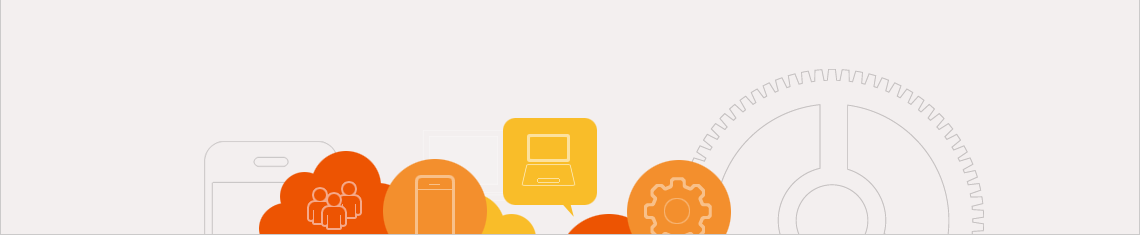
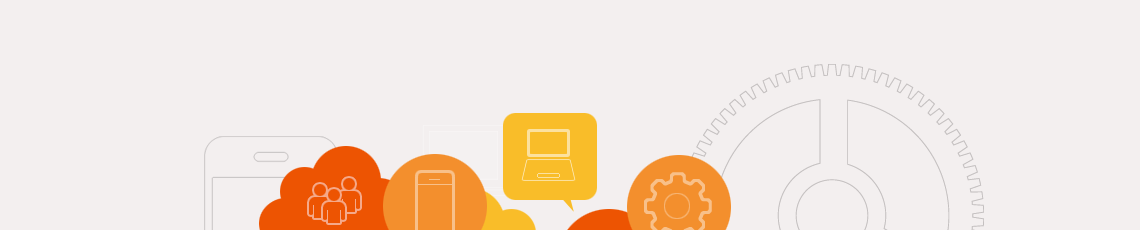
Visual tweaks

diff --git a/css/style.css b/css/style.css
@@ -27,7 +27,7 @@ html, body {
     background-image: url("../assets/LandingPageBanner.png");
     background-size: 100% 100%;
     margin: auto;
-    max-height: 235px;
+    max-height: 230px;
     max-width: 1140px;
     position: relative;
     padding: 9% 0 12.2% 0;
@@ -80,7 +80,7 @@ html, body {
 
 .bookContainer .signUp {
     position: relative;
-    top: -25px;
+    top: -100px;
     background: white;
     border: 1px solid;
     max-width: 24em;
@@ -101,7 +101,7 @@ html, body {
 
 #mce-EMAIL, #mce-LNAME, #mce-FNAME, #mce-MMERGE3 {
     float: right;
-    border: 2px solid black;
+    border: 1px solid #333;
 }
 
 #mce-EMAIL, #mce-LNAME, #mce-FNAME {
